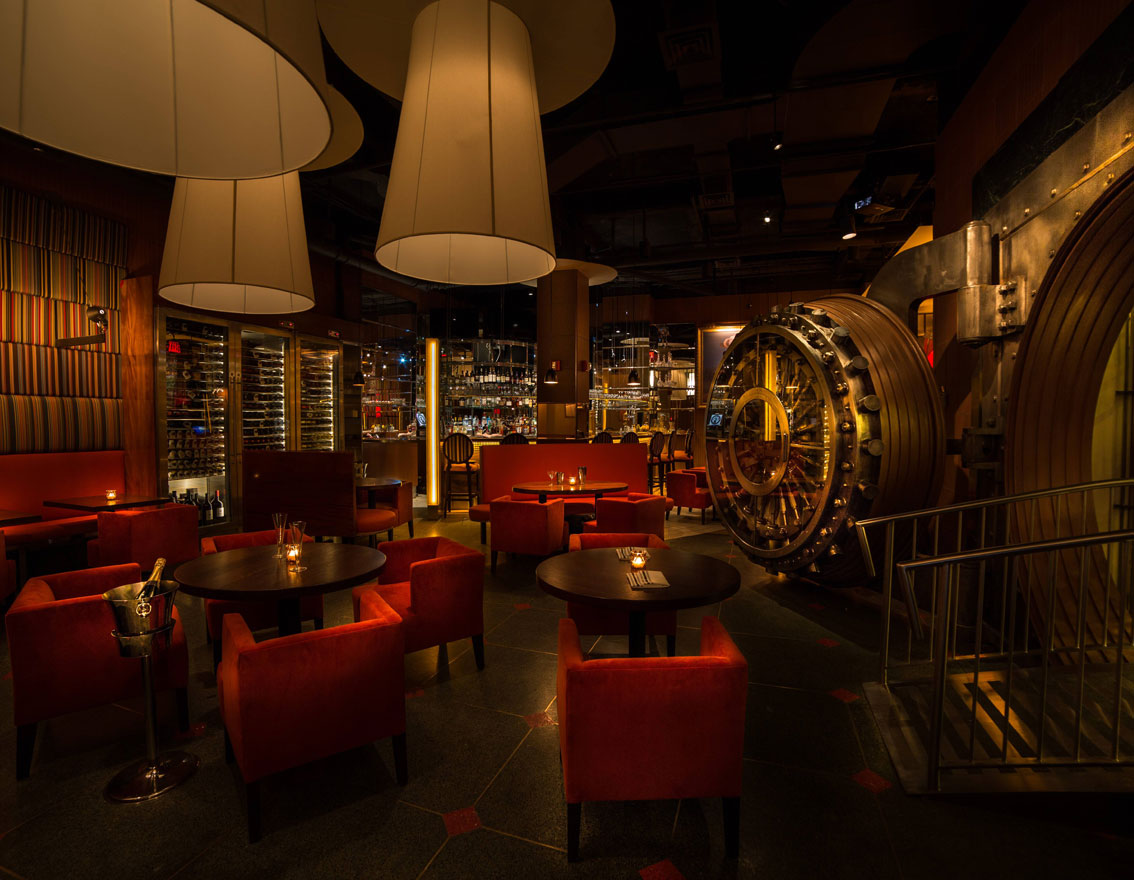
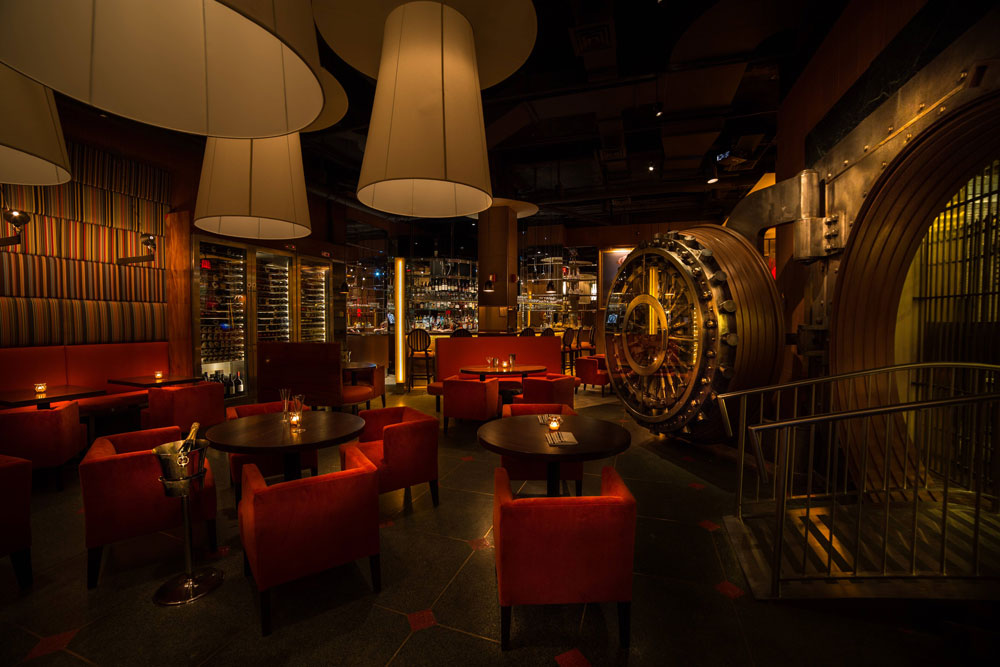
dining butcher image updated

diff --git a/_layouts/dining.html b/_layouts/dining.html
@@ -140,8 +140,8 @@ layout: default
                       <a href="//cdn.traveltripper.io/site-assets/426_558_9873/media/2017-12-05-051123/DessertMenuR-3.pdf" target="_blank" class="btn-common mbottom">Dessert Menu</a>
                   </div>
                 </div>
-                <div class="col-sm-6">
-                  <div class="img"><img src="/images/dining/img-02.jpg" alt="" class="img-responsive"/></div> 
+                <div class="col-sm-6 butcher-img">
+                   
                 </div>
             </div>
          </div> 

diff --git a/_sass/pages/_dining.scss b/_sass/pages/_dining.scss
@@ -104,3 +104,10 @@
 	margin-top: 75px;
 	margin-bottom: 75px;
 }
+.butcher-img{
+	background-image: url('/images/dining/butcher-02.jpg');
+	background-size: cover;
+	background-position: center;
+	background-repeat: no-repeat;
+	height: 474px;
+}
